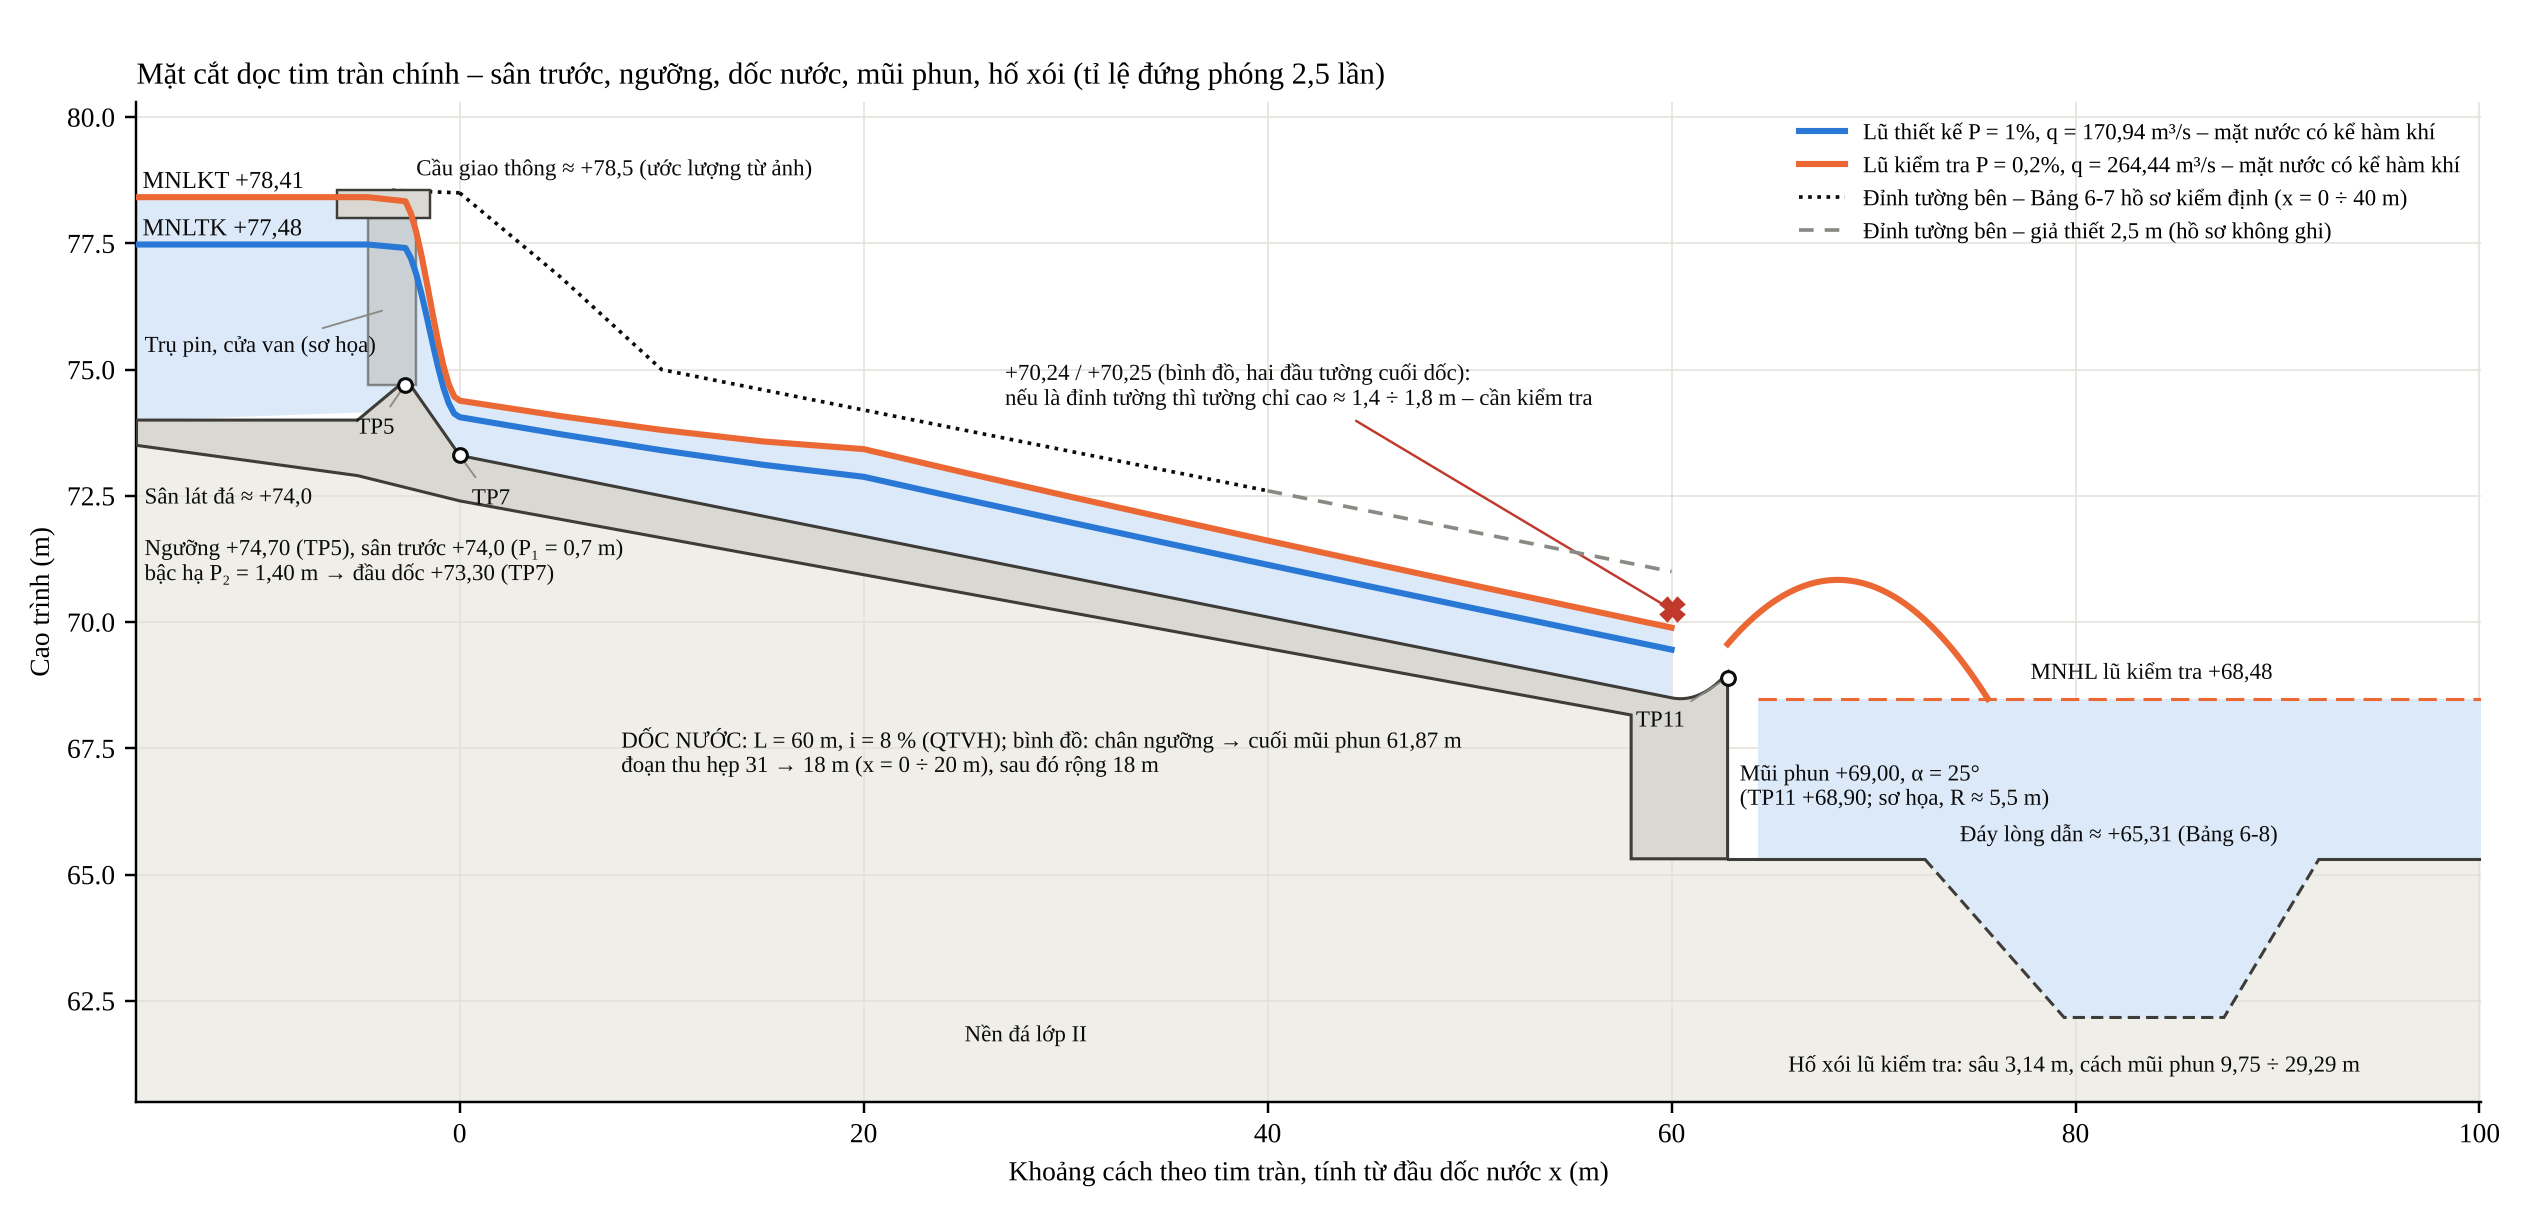
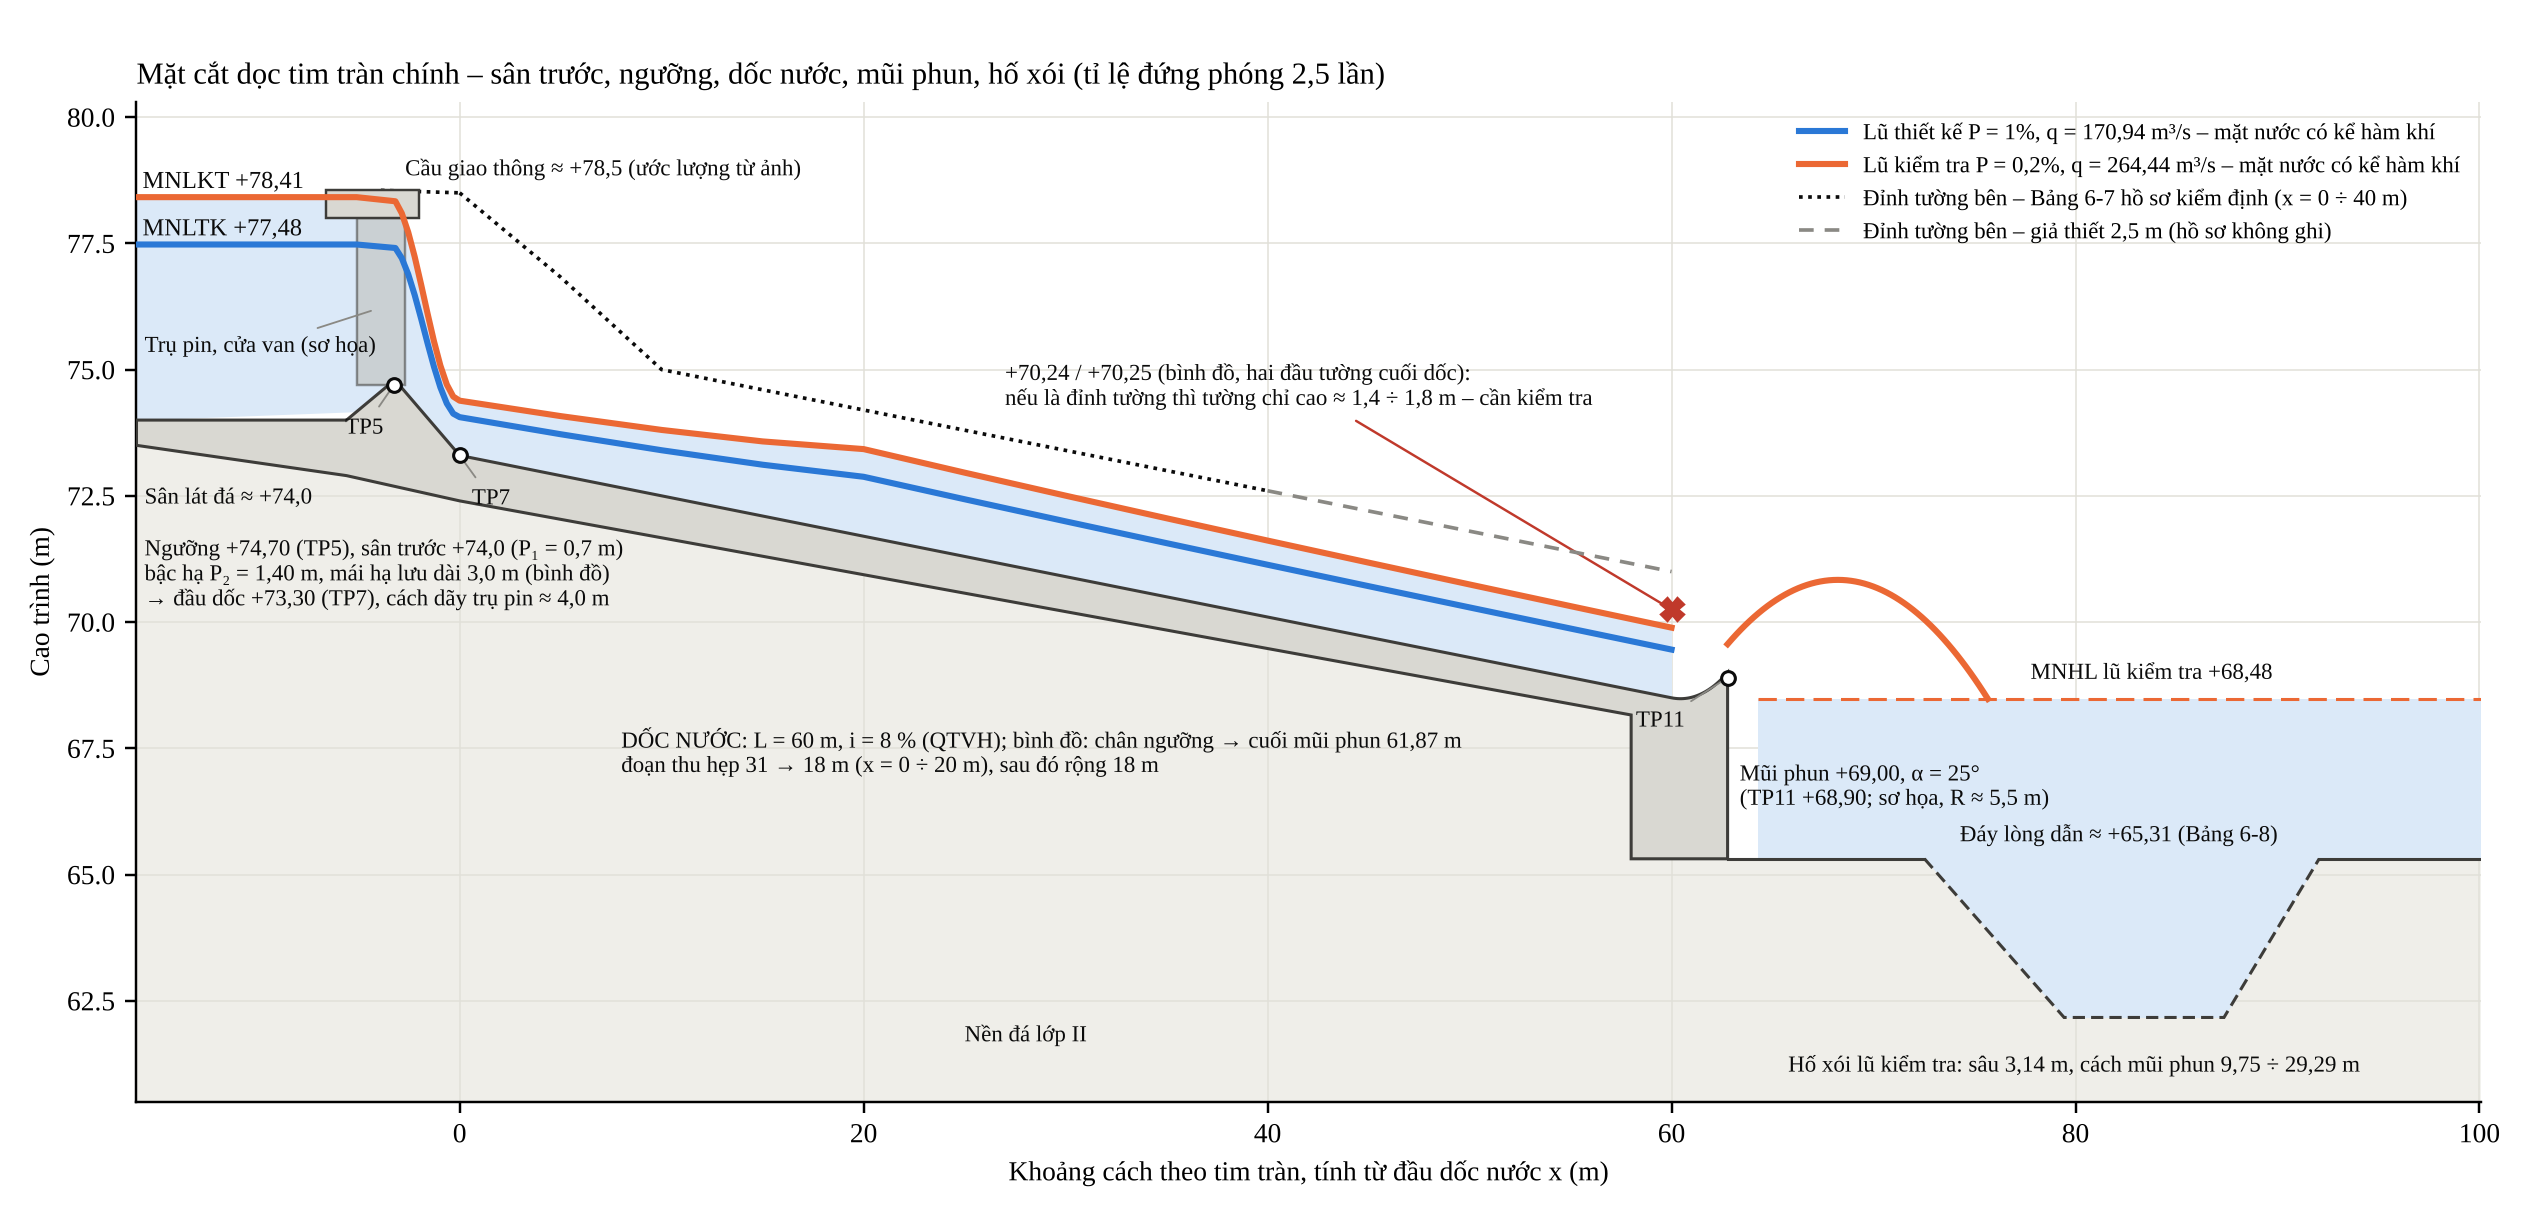
Hình mặt cắt dọc: mái hạ lưu ngưỡng dài 3,0 m theo bình đồ (lớp "mai doc"), dãy trụ pin cách chân ngưỡng ≈ 4,0 m
Claude-Session: https://claude.ai/code/session_01FZ7RkEfpZxiJWB6royQwfj

Changed region(s): [[0.1249, 0.1234, 0.3123, 0.401], [0.0625, 0.4318, 0.2498, 0.4935]]

diff --git a/DATN_HoCaGiay/tinh_toan/ve_mat_cat_doc_nuoc.py b/DATN_HoCaGiay/tinh_toan/ve_mat_cat_doc_nuoc.py
@@ -67,9 +67,12 @@ def mat_cat_doc(kq):
     x_moi = xb[-1]
     # ---- nền đá, kết cấu bê tông (sân trước, ngưỡng, bản đáy dốc, mũi phun)
     x_san0 = -16.0
-    x_ng_tl = -TC['delta'] - TC['P2'] * TC['S_HL'] - TC['P1'] * TC['S_TL']
-    x_ng_dinh0 = -TC['delta'] - TC['P2'] * TC['S_HL']
-    x_ng_dinh1 = -TC['P2'] * TC['S_HL']
+    # mái hạ lưu ngưỡng: SV đo trên bình đồ (lớp "mai doc") dài 3,0 m theo phương dòng chảy (≈ 1:2,1 với P₂ = 1,40 m);
+    # dãy trụ pin cách chân ngưỡng ≈ 4,0 m
+    L_MAI_HL = 3.0
+    x_ng_dinh1 = -L_MAI_HL
+    x_ng_dinh0 = x_ng_dinh1 - TC['delta']
+    x_ng_tl = x_ng_dinh0 - TC['P1'] * TC['S_TL']
     tren = [(x_san0, Z_SAN), (x_ng_tl, Z_SAN), (x_ng_dinh0, Z_NG), (x_ng_dinh1, Z_NG), (0, Z_DD), (L, Z_CUOI)] + \
            list(zip(xb[1:], zb[1:]))
     z_day_hl = mp['Z_day']
@@ -140,7 +143,7 @@ def mat_cat_doc(kq):
                 color='#0b0b0b', zorder=8, arrowprops=dict(arrowstyle='-', color=C_PHU, lw=0.6))
     ghi = [((x_san0 + 0.4, 72.25), 'Sân lát đá ≈ +74,0'),
            ((x_ng_dinh1 + 0.3, Z_CAU_TREN + 0.2), 'Cầu giao thông ≈ +78,5 (ước lượng từ ảnh)'),
-           ((x_san0 + 0.4, 70.7), 'Ngưỡng +74,70 (TP5), sân trước +74,0 (P₁ = 0,7 m)\nbậc hạ P₂ = 1,40 m → đầu dốc +73,30 (TP7)'),
+           ((x_san0 + 0.4, 70.2), 'Ngưỡng +74,70 (TP5), sân trước +74,0 (P₁ = 0,7 m)\nbậc hạ P₂ = 1,40 m, mái hạ lưu dài 3,0 m (bình đồ)\n→ đầu dốc +73,30 (TP7), cách dãy trụ pin ≈ 4,0 m'),
            ((8, 66.9), 'DỐC NƯỚC: L = %s m, i = %s %% (QTVH); bình đồ: chân ngưỡng → cuối mũi phun 61,87 m\nđoạn thu hẹp 31 → 18 m (x = 0 ÷ 20 m), sau đó rộng 18 m' % (s1(L).replace(',0', ''), s1(I * 100).replace(',0', ''))),
            ((x_moi + 0.6, 66.25), 'Mũi phun +%s, α = %d°\n(TP11 +68,90; sơ họa, R ≈ %s m)' % (s2(K.Z_MUI), K.ALPHA_MP, s1(R))),
            ((x_moi + 15.0, mp['MNHL'] + 0.3), 'MNHL lũ kiểm tra +%s' % s2(mp['MNHL'])),
